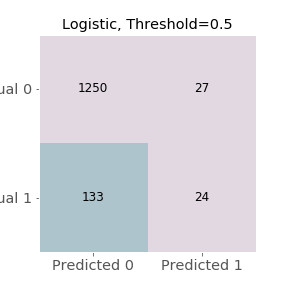
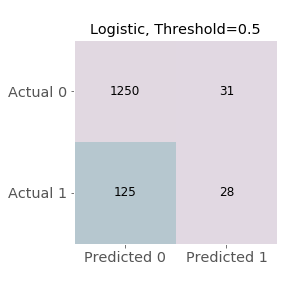
Update graphics for initial models

diff --git a/src/model_exploration.py b/src/model_exploration.py
@@ -60,7 +60,8 @@ ax.set_title('Logistic, Threshold=0.5')
 for i in range(2):
     for j in range(2):
         ax.text(j, i, cm[i, j], ha='center', va='center', color='black', size='large')
-#plt.savefig('cf_base_model.png')
+fig.tight_layout()
+#plt.savefig('img/cf_base_model.png')
 plt.show()
 
 scaler = MinMaxScaler()
@@ -126,8 +127,7 @@ fig.update_layout(title='ROC Curves',
 fig.show()
 #fig.write_image('img/roc_comparison.png', width=1000, height=500)
 
-#Confusion matrix for logistic regression model (best performance by small margin)
-#Probability threshold = 0.5
+#Confusion matrix for logistic regression model, probability threshold = 0.5
 cm = confusion_matrix(y_log[test], get_ypred(y_log[test], y_hat_log, 0.5))
 fig, ax = plt.subplots(figsize=(4, 4))
 ax.imshow(cm, cmap='twilight')
@@ -141,5 +141,42 @@ ax.set_title('Logistic, Threshold=0.5')
 for i in range(2):
     for j in range(2):
         ax.text(j, i, cm[i, j], ha='center', va='center', color='black', size='large')
-plt.show()
+fig.tight_layout()
 #plt.savefig('img/cf_log.png')
+plt.show()
+
+#Confusion matrix for random forest model, probability threshold = 0.5
+cm = confusion_matrix(y_rf[test], get_ypred(y_rf[test], y_hat_rf, 0.5))
+fig, ax = plt.subplots(figsize=(4, 4))
+ax.imshow(cm, cmap='twilight')
+ax.grid(False)
+ax.xaxis.set(ticks=(0, 1))
+ax.yaxis.set(ticks=(0, 1))
+ax.set_xticklabels(('Predicted 0', 'Predicted 1'), size='x-large')
+ax.set_yticklabels(('Actual 0', 'Actual 1'), size='x-large')
+ax.set_ylim(1.5, -0.5)
+ax.set_title('Random Forest, Threshold=0.5')
+for i in range(2):
+    for j in range(2):
+        ax.text(j, i, cm[i, j], ha='center', va='center', color='black', size='large')
+fig.tight_layout()
+#plt.savefig('img/cf_rf.png')
+plt.show()
+
+#Confusion matrix for gradient boosting model, probability threshold = 0.5
+cm = confusion_matrix(y_gbc[test], get_ypred(y_gbc[test], y_hat_gbc, 0.5))
+fig, ax = plt.subplots(figsize=(4, 4))
+ax.imshow(cm, cmap='twilight')
+ax.grid(False)
+ax.xaxis.set(ticks=(0, 1))
+ax.yaxis.set(ticks=(0, 1))
+ax.set_xticklabels(('Predicted 0', 'Predicted 1'), size='x-large')
+ax.set_yticklabels(('Actual 0', 'Actual 1'), size='x-large')
+ax.set_ylim(1.5, -0.5)
+ax.set_title('Gradient Boosting, Threshold=0.5')
+for i in range(2):
+    for j in range(2):
+        ax.text(j, i, cm[i, j], ha='center', va='center', color='black', size='large')
+fig.tight_layout()
+#plt.savefig('img/cf_gbc.png')
+plt.show()

diff --git a/src/model_improvement.py b/src/model_improvement.py
@@ -1,0 +1,15 @@
+import numpy as np
+import pandas as pd
+
+import matplotlib.pyplot as plt
+%matplotlib inline
+plt.style.use('ggplot')
+import plotly.graph_objects as go
+
+
+from sklearn.preprocessing import MinMaxScaler
+from sklearn.utils import resample
+from sklearn.model_selection import train_test_split, KFold
+from sklearn.linear_model import LogisticRegression
+from sklearn.ensemble import RandomForestClassifier, GradientBoostingClassifier
+from sklearn.metrics import log_loss, roc_curve, roc_auc_score, confusion_matrix

diff --git a/README.md b/README.md
@@ -2,7 +2,7 @@
 
 ## Introduction
 
-<p>Cardiovascular disease continues to be the leading cause of death in the U.S.  Nearly half of all heart attacks have symptoms so mild that individuals don't know they are having a heart attack--a so-called silent heart attack.  Health professionals estimate that 8 to 11 million people suffer from silent strokes <img align="left" width="225" height="115" src="img/marcelo-leal-k7ll1hpdhFA-unsplash.jpg"> each year in which individuals are asymptomatic but would have evidence of a stroke on an MRI.  These risks, combined with the ever-increasing cost of healthcare in the U.S., indicate a need for increased diagnostic efficiency.  How can we identify the individuals who are most at risk?  What preventative measures could be implemented to decrease risk?</p>
+<p>Cardiovascular disease continues to be the leading cause of death in the U.S.  Nearly half of all heart attacks have symptoms so mild that individuals don't know they are having a heart attack--a so-called silent heart attack.  Health professionals estimate that 8 to 11 million people suffer from silent strokes <img align="left" width="225" height="118" src="img/marcelo-leal-k7ll1hpdhFA-unsplash.jpg"> each year in which individuals are asymptomatic but would have evidence of a stroke on an MRI.  These risks, combined with the ever-increasing cost of healthcare in the U.S., indicate a need for increased diagnostic efficiency.  How can we identify the individuals who are most at risk?  What preventative measures could be implemented to decrease risk?</p>
 
 ## Data
 
